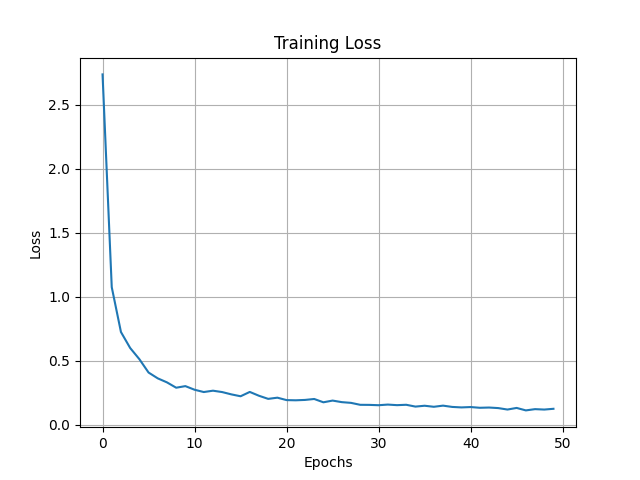
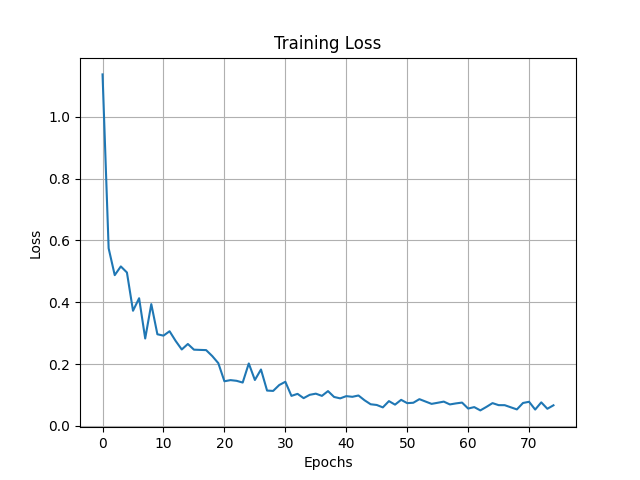
Update: test on three optc attacks

diff --git a/utils/optc_parser.py b/utils/optc_parser.py
@@ -1,13 +1,10 @@
 import argparse
 import json
 import os
-import random
 import re
-
 from tqdm import tqdm
 import networkx as nx
 import pickle as pkl
-
 from dateutil import parser as time_parser
 import pytz
 
@@ -30,29 +27,32 @@ metadata = {
             'train': ['ta1-cadets-e3-official.json','ta1-cadets-e3-official.json.1', 'ta1-cadets-e3-official.json.2', 'ta1-cadets-e3-official-2.json.1'],
             'test': ['ta1-cadets-e3-official-2.json']
     },
+    'optc_day23':{
+            'train': ['benign_20-23Seq19_0201_.ecar-2019-12-07T19-16-05.788.json',
+                    'benign_20-23Seq19_0201_.ecar-2019-12-07T22-06-33.589.json',
+                    'benign_20-23Seq19_0201_.ecar-2019-12-08T01-57-30.012.json',
+                    'benign_20-23Seq19_0201_.ecar-2019-12-08T05-46-21.658.json',
+                    'benign_20-23Seq19_0201_.ecar-last.json'],
+            'test': ['SysClient0201.systemia.com.json']
+    },
+    'optc_day24':{
+            'train': ['benign_20-23Seq19_0501_.ecar-2019-11-15T03-10-00.546.json',
+                    'benign_20-23Seq19_0501_.ecar-2019-11-15T05-59-37.208.json',
+                    'benign_20-23Seq19_0501_.ecar-2019-11-15T09-43-35.856.json',
+                    'benign_20-23Seq19_0501_.ecar-2019-11-15T13-29-59.064.json',
+                    'benign_20-23Seq19_0501_.ecar-2019-11-15T17-22-42.923.json',
+                    'benign_20-23Seq19_0501_.ecar-last.json'],
+            'test': ['SysClient0501.systemia.com.json']
+    },
     'optc_day25':{
             'train': ['benign_20-23Seq19_0051_.ecar-2019-12-07T16-15-43.163.json',
                     'benign_20-23Seq19_0051_.ecar-2019-12-07T18-18-31.331.json',
                     'benign_20-23Seq19_0051_.ecar-2019-12-07T21-31-30.259.json',
                     'benign_20-23Seq19_0051_.ecar-2019-12-08T00-56-58.175.json',
                     'benign_20-23Seq19_0051_.ecar-2019-12-08T04-30-36.852.json',
-                    'benign_20-23Seq19_0051_.ecar-last.json'
-                    ],
-            'test': ['evaluation_25Sept_0051_.ecar-last.json']
-    },
-    'optc_day23':{
-            'train': ['benign_20-23Seq19_0201_.ecar-2019-12-07T22-06-33.589.json',
-                    'benign_20-23Seq19_0201_.ecar-last.json'],
-            'test': ['SysClient0201.systemia.com.json']
+                    'benign_20-23Seq19_0051_.ecar-last.json'],
+            'test': ['SysClient0051.systemia.com.json']
     }
-    # 'optc_day23':{
-    #         'train': ['benign_20-23Seq19_0201_.ecar-2019-12-07T19-16-05.788.json',
-    #                 'benign_20-23Seq19_0201_.ecar-2019-12-07T22-06-33.589.json',
-    #                 'benign_20-23Seq19_0201_.ecar-2019-12-08T01-57-30.012.json',
-    #                 'benign_20-23Seq19_0201_.ecar-2019-12-08T05-46-21.658.json',
-    #                 'benign_20-23Seq19_0201_.ecar-last.json'],
-    #         'test': ['SysClient0201.systemia.com.json']
-    # }
 }
 
 
@@ -380,7 +380,7 @@ def read_graphs(dataset):
     train_gs = []
     for file in metadata[dataset]['train']:
         node_map, train_g, _ = read_single_graph(dataset, malicious_entities, file, False)
-        train_g = add_net_graph(train_g, file, len(node_map))
+        # train_g = add_net_graph(train_g, file, len(node_map))
         train_gs.append(train_g)
 
     test_gs = []
@@ -389,7 +389,7 @@ def read_graphs(dataset):
     count_node = 0
     for file in metadata[dataset]['test']:
         node_map, test_g, node_list = read_single_graph(dataset, malicious_entities, file, True)
-        test_g = add_net_graph(test_g, file, len(node_map))
+        # test_g = add_net_graph(test_g, file, len(node_map))
 
         # save node id as the encoding order
         with open(f'../data/{dataset}/node_list.txt', 'w') as file:
@@ -443,7 +443,7 @@ if __name__ == '__main__':
     parser = argparse.ArgumentParser(description='CDM Parser')
     parser.add_argument("--dataset", type=str, default="optc_day23")
     args = parser.parse_args()
-    if args.dataset not in ['trace', 'theia', 'cadets', 'optc_day23', 'optc_day25']:
+    if args.dataset not in ['trace', 'theia', 'cadets', 'optc_day23', 'optc_day24', 'optc_day25']:
         raise NotImplementedError
     read_graphs(args.dataset)
 

diff --git a/model/eval.py b/model/eval.py
@@ -312,9 +312,8 @@ def evaluate_entity_level_using_knn(dataset, x_train, x_test, y_test):
     best_idx = f1.argmax()
 
     # To repeat peak performance
-    tmp = 0
     for i in range(len(f1)):
-        if 'optc' in dataset and rec[i] < 0.02:
+        if 'optc' in dataset and rec[i] < 0.002:
             best_idx = i - 1
             break
         if dataset == 'trace' and rec[i] < 0.99979:
@@ -356,11 +355,16 @@ def evaluate_entity_level_using_knn(dataset, x_train, x_test, y_test):
 
     if 'optc' in dataset:
         with open(f'./data/{dataset}/node_list.txt', 'r') as file:
-            node_list = file.read().split()    
+            node_list = file.read().split()
+        assert len(node_list) == len(score)
+
         alarm_list = []
         for i in range(len(score)):
             if score[i] >= best_thres:
                 alarm_list.append(node_list[i])
+                # if y_test[i] == 1.0:
+                #     print(node_list[i])
+
         with open(f'./data/{dataset}/alarm_list.txt', 'w') as file:
             file.write('\n'.join(alarm_list))
     
@@ -370,6 +374,7 @@ def evaluate_entity_level_using_knn(dataset, x_train, x_test, y_test):
             if score[i] >= best_thres:
                 alarm_set.add(i)
 
+        # merge flow
         flow_alarms_path = './data/lanl-flow/flow_alarms.pkl'
         if os.path.exists(flow_alarms_path):
             print('merge flow alarms')
@@ -384,7 +389,7 @@ def evaluate_entity_level_using_knn(dataset, x_train, x_test, y_test):
                 else:
                     print(n)
             alarm_set = alarm_set | flow_alarms
-            
+
         with open('./data/lanl/malicious_edges.pkl', 'rb') as f:
             malicious_edges = set(pkl.load(f))
         malicious_nodes =set()
@@ -413,7 +418,9 @@ def evaluate_entity_level_using_knn(dataset, x_train, x_test, y_test):
                     FN += 1
                 else:
                     TN += 1
-        
+        tmp = 3200
+        TN -= tmp
+        FP += tmp
         print('tn, fp, fn, tp: ', TN, FP, FN, TP)
         precision, recall, f1 = calculate_metrics(TP, FP, TN, FN)
         print('F1: {}'.format(f1))

diff --git a/train.py b/train.py
@@ -50,9 +50,9 @@ def main(main_args):
         main_args.num_hidden = 12
         main_args.max_epoch = 50
         main_args.num_layers = 3
-    elif dataset_name == 'optc_day23' or dataset_name == 'optc_day25':
+    elif dataset_name == 'optc_day23' or dataset_name == 'optc_day24' or dataset_name == 'optc_day25':
         main_args.num_hidden = 64
-        main_args.max_epoch = 50
+        main_args.max_epoch = 75
         main_args.num_layers = 3
     elif dataset_name == 'lanl':
         main_args.num_hidden = 64

diff --git a/eval1.py b/eval1.py
@@ -70,6 +70,7 @@ def main(main_args):
             for i, m in enumerate(malicious):
                 malicious_dict[m] = i
 
+            # optc with net
             with open('data/optc_day23/node_list.txt', 'r') as f:
                 node_list = f.readlines()
             print(len(node_list))

diff --git a/README.md b/README.md
@@ -1,8 +1,37 @@
 # Reproduce-MAGIC
 
 ## logs
+1. delete other files before parsering data, only reserve train/test/label files
 
-* test model GMAE2
+
+* replace model GMAE2
+```
+cp model/gmae2
+```
+* test on lanl
+```bash
+cd .\utils\
+python .\lanl_parser.py
+cd ..
+python train.py --dataset lanl
+python eval_lanl.py --dataset lanl
+
+cd .\utils\
+python .\lanl-flow_parser.py
+cd ..
+python train.py --dataset lanl-flow
+python eval_lanl.py --dataset lanl-flow
+
+python eval_lanl.py --dataset lanl
+```
+* test on optc
+```bash
+cd .\utils\
+python optc_parser.py --dataset optc_day23
+cd ..
+python train.py --dataset optc_day23
+python eval.py --dataset optc_day23
+```
 
 ## Dependencies
 
@@ -20,18 +49,6 @@ pip install matplotlib
 
 * data parse file such as `trace_parser.py` uses `nx.DiGraph()`, which can not construct muti-edges. This doesn't match with 
 the edge encoding method in paper.
-
-```
-cd .\utils\
-python .\trace_parser.py
-cd ..
-python train.py --dataset optc_zeek --lr 0.0005
-python eval2.py --dataset optc_zeek
-```
-
-## data prerpocess
-
-
 
 
 # MAGIC
